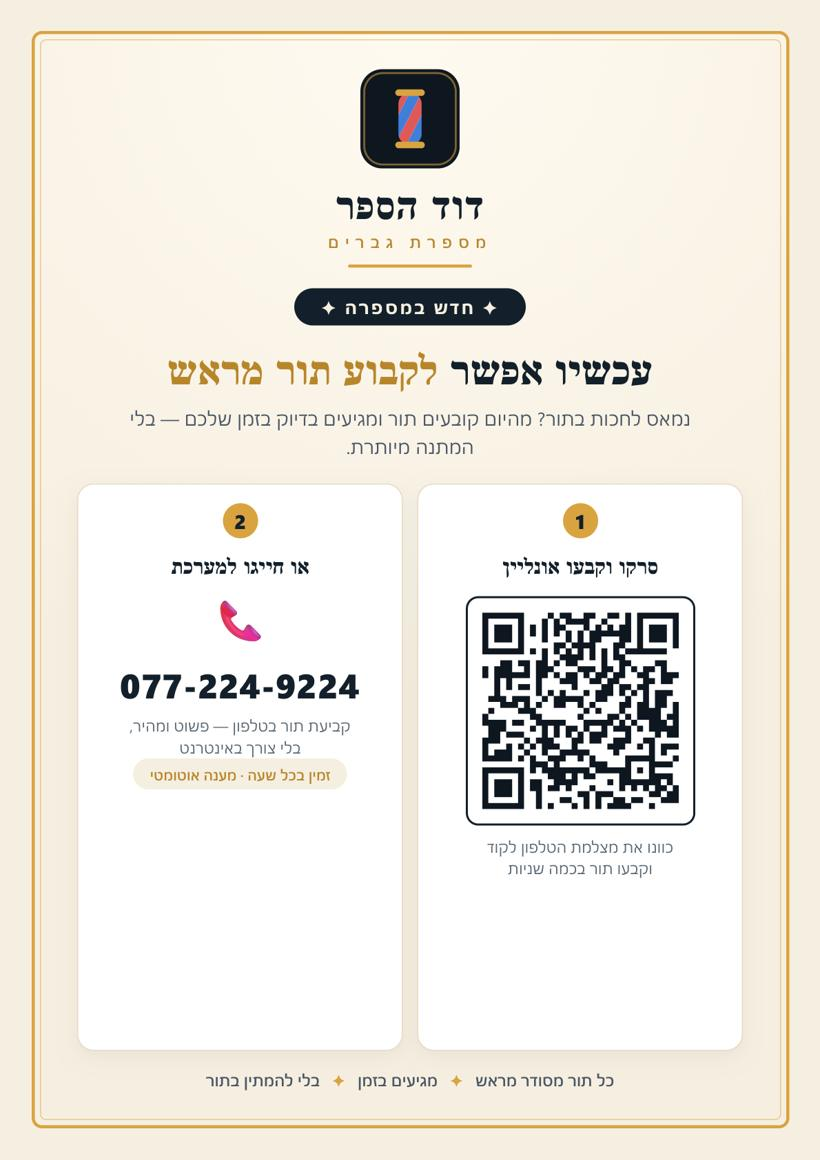
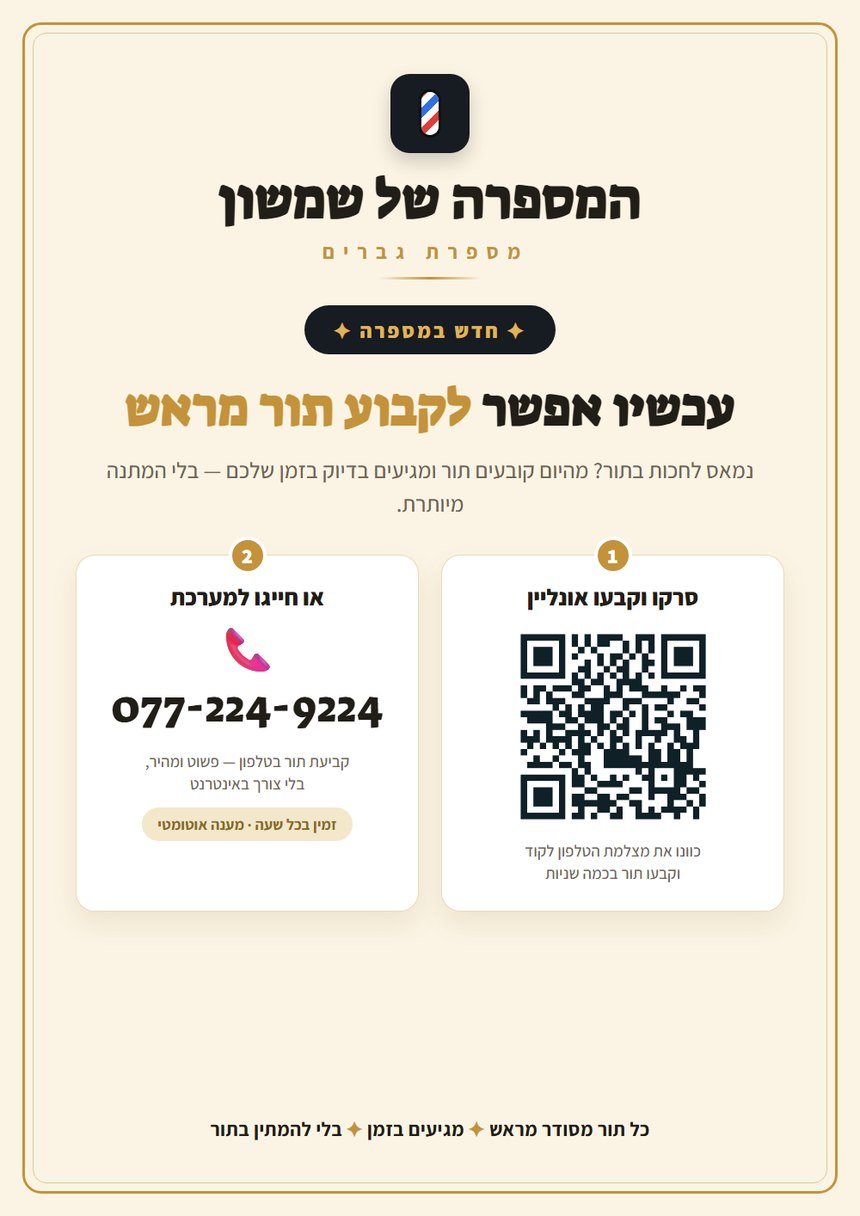
Rebrand demo from real name to fictional 'המספרה של שמשון'; lock business-name in demo; new flyer

diff --git a/admin.html b/admin.html
@@ -3,12 +3,12 @@
 <head>
   <meta charset="UTF-8">
   <meta name="viewport" content="width=device-width, initial-scale=1, maximum-scale=1, viewport-fit=cover">
-  <title>דוד הספר – ניהול</title>
+  <title>המספרה של שמשון – ניהול</title>
   <meta name="theme-color" content="#0f1720">
   <meta name="mobile-web-app-capable" content="yes">
   <meta name="apple-mobile-web-app-capable" content="yes">
   <meta name="apple-mobile-web-app-status-bar-style" content="black-translucent">
-  <meta name="apple-mobile-web-app-title" content="ניהול · דוד הספר">
+  <meta name="apple-mobile-web-app-title" content="ניהול · המספרה של שמשון">
   <link rel="manifest" href="manifest.json">
   <link rel="apple-touch-icon" sizes="180x180" href="apple-touch-icon.png">
   <link rel="icon" href="icon.svg" type="image/svg+xml">
@@ -21,7 +21,7 @@
     <div class="topbar">
       <div class="logo">🔧</div>
       <div>
-        <h1>ניהול · דוד הספר</h1>
+        <h1>ניהול · המספרה של שמשון</h1>
         <p>שליטה על תורים, ימים ושעות</p>
       </div>
     </div>
@@ -98,8 +98,8 @@
           <option value="60">שעה</option>
         </select>
 
-        <label style="margin-top:14px">שם העסק</label>
-        <input type="text" id="bizNameIn">
+        <label style="margin-top:14px">שם העסק <span class="sub">🔒 מושבת בהדגמה</span></label>
+        <input type="text" id="bizNameIn" readonly style="opacity:.7;cursor:not-allowed">
 
         <label style="margin-top:14px">כמה ימים קדימה מותר לקבוע</label>
         <input type="text" id="bookAhead" inputmode="numeric">

diff --git a/index.html b/index.html
@@ -3,13 +3,13 @@
 <head>
   <meta charset="UTF-8">
   <meta name="viewport" content="width=device-width, initial-scale=1, maximum-scale=1">
-  <title>דוד הספר – קביעת תור</title>
-  <meta name="description" content="קביעת תור אונליין לדוד הספר. בחר יום ושעה, מלא שם וטלפון – וזהו.">
+  <title>המספרה של שמשון – קביעת תור</title>
+  <meta name="description" content="קביעת תור אונליין למספרה של שמשון. בחר יום ושעה, מלא שם וטלפון – וזהו.">
   <meta name="theme-color" content="#0f1720">
   <link rel="apple-touch-icon" sizes="180x180" href="apple-touch-icon.png">
   <link rel="icon" href="icon.svg" type="image/svg+xml">
   <meta name="apple-mobile-web-app-capable" content="yes">
-  <meta name="apple-mobile-web-app-title" content="דוד הספר">
+  <meta name="apple-mobile-web-app-title" content="המספרה של שמשון">
   <link rel="stylesheet" href="css/style.css">
   <script>try{var t=localStorage.getItem('davidTheme');if(t&&t!=='1')document.documentElement.setAttribute('data-theme',t);}catch(e){}</script>
 </head>
@@ -19,7 +19,7 @@
     <div class="topbar">
       <div class="logo">💈</div>
       <div>
-        <h1 id="bizName">דוד הספר</h1>
+        <h1 id="bizName">המספרה של שמשון</h1>
         <p id="subTitle">קביעת תור אונליין · כל תור 10 דקות</p>
       </div>
     </div>

diff --git a/js/booking.js b/js/booking.js
@@ -59,7 +59,7 @@
     try { s = await Store.getSettings(); }
     catch (e) { showPhoneFallback(); return; }
     if (window.DavidTheme) window.DavidTheme.apply(s.theme);
-    el('bizName').textContent = s.businessName || 'דוד הספר';
+    el('bizName').textContent = s.businessName || 'המספרה של שמשון';
     const sm = s.slotMinutes || 10, subEl = el('subTitle');
     if (subEl) subEl.textContent = 'קביעת תור אונליין · כל תור ' + (sm === 60 ? 'שעה' : sm + ' דקות');
 

diff --git a/js/admin.js b/js/admin.js
@@ -236,7 +236,7 @@
       slotMinutes,
       startTime: starts[0],
       endTime: ends[ends.length - 1],
-      businessName: el('bizNameIn').value.trim() || 'דוד הספר',
+      businessName: el('bizNameIn').value.trim() || 'המספרה של שמשון',
       bookAheadDays: Math.max(1, Math.min(90, parseInt(el('bookAhead').value) || 21))
     });
     showMsg(el('settingsMsg'), '✅ ההגדרות נשמרו', 'ok');
